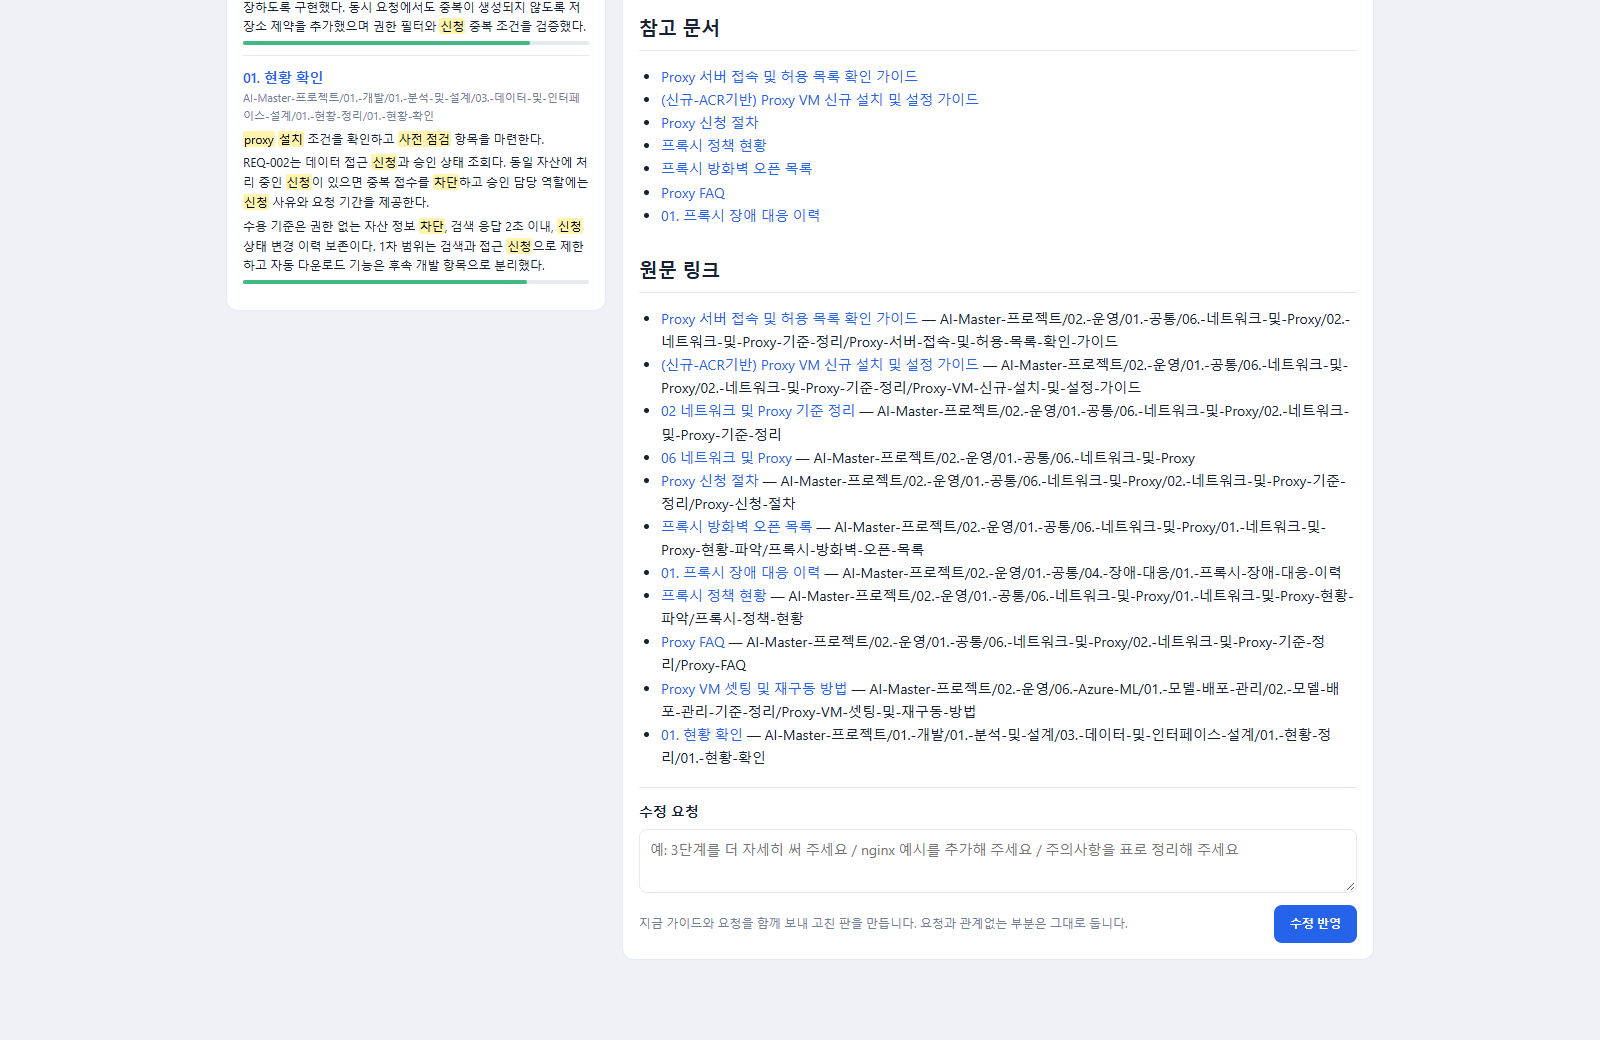
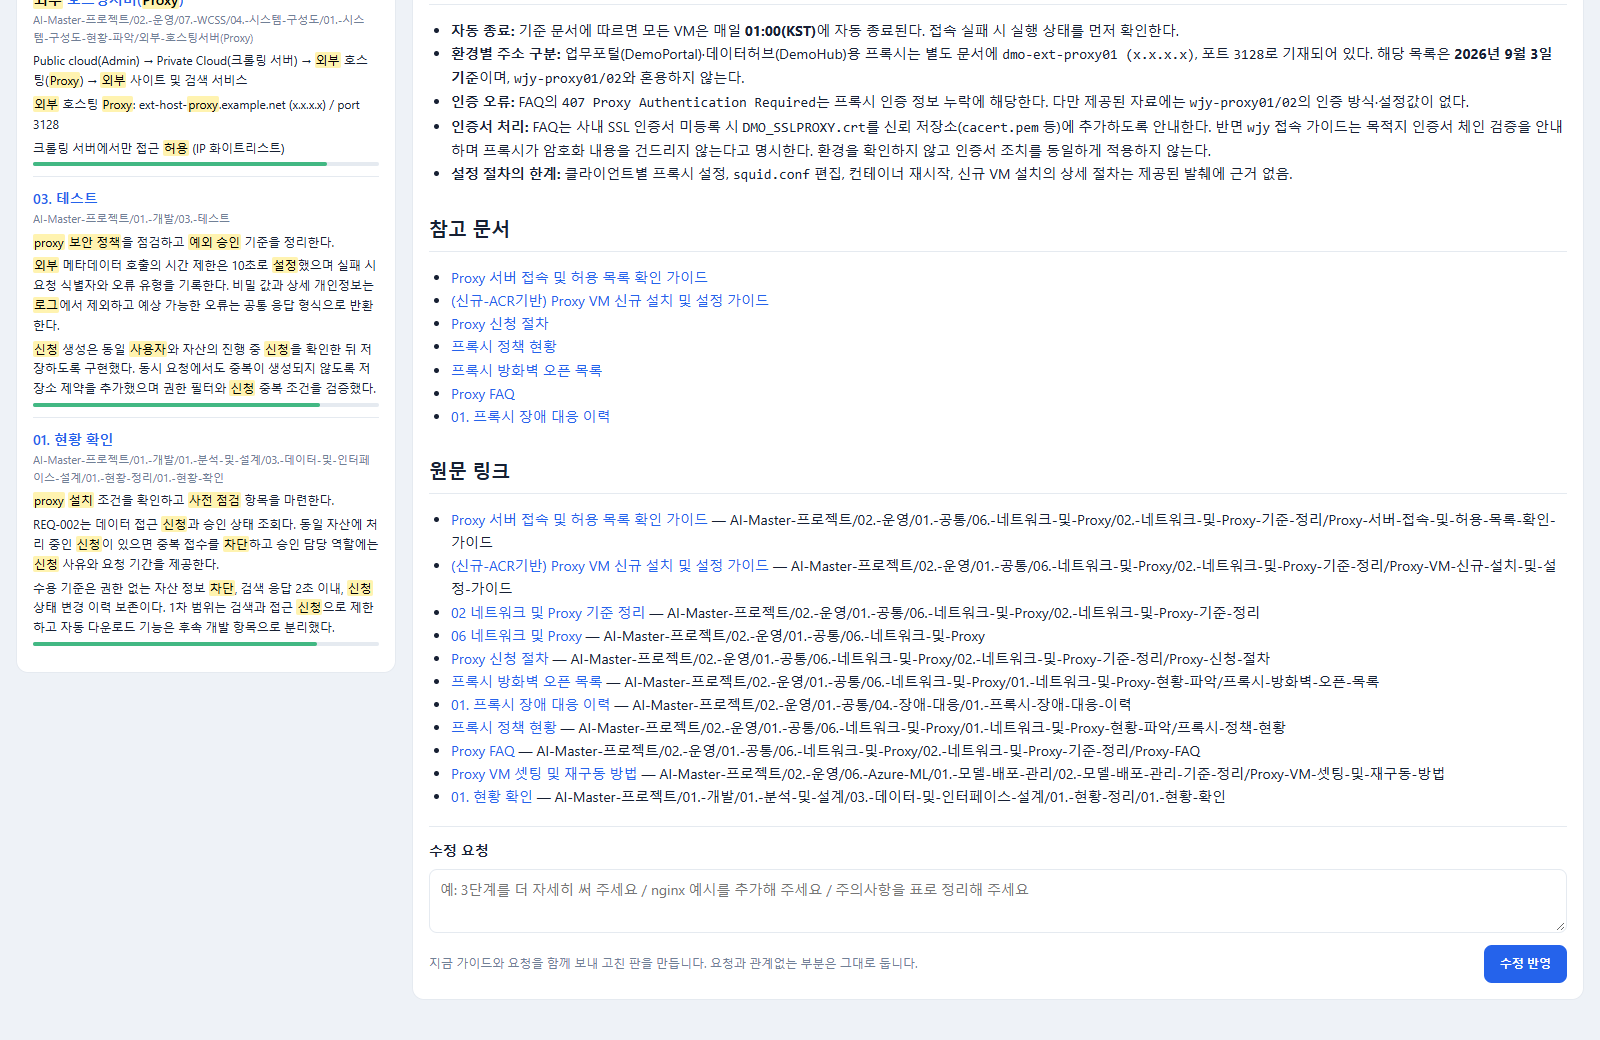
Wiki 검색 입력칸 여백을 독립 화면에도 적용하고 README 시나리오 1 그림을 허브 안 모습(embed)으로 다시 촬영, 아키텍처 그림은 누르면 큰 PNG 로

diff --git a/wiki_tools/wiki_search.py b/wiki_tools/wiki_search.py
@@ -1479,7 +1479,7 @@ __FAVICON__<title>Wiki Guide Search</title><link rel="stylesheet" href="https://
 *{box-sizing:border-box}body{margin:0;color:var(--ink);font:14px/1.65 "Segoe UI","Malgun Gothic",sans-serif;background:#eef2f7}
 .top{height:58px;background:#13213a;color:#fff;display:flex;align-items:center;padding:0 24px;gap:14px}.mark{width:28px;height:28px;border-radius:8px;background:#16a34a;display:grid;place-items:center;font-weight:800}.brand{font-size:16px;font-weight:700}.crumb{color:#aebbd0;font-size:12px}
 .wrap{max-width:1180px;margin:0 auto;padding:24px 16px 80px}
-.search{display:flex;gap:8px;background:#fff;border:1px solid var(--line);border-radius:12px;padding:8px}.search input{flex:1;border:0;outline:0;font:inherit;font-size:16px;padding:8px 10px}
+.search{display:flex;gap:8px;background:#fff;border:1px solid var(--line);border-radius:10px;padding:3px}.search input{flex:1;border:0;outline:0;font:inherit;font-size:15px;padding:2px 10px}.search button{padding:5px 16px}
 button{font:inherit;border:0;border-radius:8px;padding:9px 16px;cursor:pointer;background:var(--blue);color:#fff;font-weight:600}button.ghost{background:#fff;color:var(--ink);border:1px solid var(--line)}button:disabled{opacity:.5;cursor:default}
 .steps{display:flex;gap:8px;margin:16px 0;flex-wrap:wrap}.step{padding:4px 12px;border-radius:999px;background:#dfe6ef;color:var(--muted);font-size:12px;font-weight:600}.step.on{background:#13213a;color:#fff}.step.done{background:#42b883;color:#fff}
 .chips{display:flex;flex-wrap:wrap;gap:6px;margin:8px 0 0;font-size:12px;color:var(--muted);align-items:center}.chip{background:#e8effa;color:#174ea6;border-radius:6px;padding:2px 8px}
@@ -1494,7 +1494,7 @@ mark{background:var(--hl);padding:0 1px;border-radius:2px}
 .tools{display:flex;gap:8px;justify-content:flex-end;align-items:center;margin-bottom:8px;flex-wrap:wrap}.revise{margin-top:18px;border-top:1px solid var(--line);padding-top:12px}.revise textarea{width:100%;margin:6px 0;border:1px solid var(--line);border-radius:8px;padding:8px 10px;font:inherit;resize:vertical}.revbar{display:flex;gap:10px;align-items:center;justify-content:space-between;font-size:12px}.regok{background:#e3f5ec;color:#1e7a4f;border-radius:8px;padding:8px 12px;margin-bottom:10px;font-size:13px}.regerr{background:#fdecec;color:#9b2c2c;border-radius:8px;padding:8px 12px;margin-bottom:10px;font-size:13px}.gen{margin-right:auto;font-size:12px;font-weight:600;border-radius:999px;padding:4px 12px;background:#f1f5f9;color:#475569}.gen.llm{background:#dcfce7;color:#166534}.gen.live{background:#dbeafe;color:#1e40af}.tools[hidden]{display:none}.muted{color:var(--muted)}.empty{color:var(--muted);text-align:center;padding:40px 0}
 @media(max-width:820px){.grid{grid-template-columns:1fr}.opts{grid-template-columns:1fr}}
 </style></head><body>
-<script>if(/[?&]embed=1/.test(location.search))document.documentElement.classList.add("embed")</script><style>html.embed header.top{display:none}html.embed .wrap{max-width:none;padding:4px 16px 40px}html.embed .search{padding:3px;border-radius:10px}html.embed .search input{padding:2px 10px;font-size:15px}html.embed .search button{padding:5px 16px}</style><header class="top"><div class="mark">G</div><div class="brand">Wiki Guide Search</div><div class="crumb">wiki-repo 의미 검색 · 가이드 생성</div></header>
+<script>if(/[?&]embed=1/.test(location.search))document.documentElement.classList.add("embed")</script><style>html.embed header.top{display:none}html.embed .wrap{max-width:none;padding:4px 16px 40px}</style><header class="top"><div class="mark">G</div><div class="brand">Wiki Guide Search</div><div class="crumb">wiki-repo 의미 검색 · 가이드 생성</div></header>
 <div class="wrap">
 <form class="search" id="form"><input id="q" placeholder="예: 프록시 설정 가이드 알려줘" autocomplete="off" autofocus><button id="go">검색</button></form>
 <div class="steps"><span class="step" id="s1">1. 문서 검색</span><span class="step" id="s2">2. 유형 확인</span><span class="step" id="s3">3. 관련 문서 재검색</span><span class="step" id="s4">4. 가이드 생성</span></div>

diff --git a/test/capture_readme.py b/test/capture_readme.py
@@ -148,7 +148,7 @@ def reselect(page):
 
 
 def wiki(page):
-    ready(page, SITES["wiki"])
+    ready(page, SITES["wiki"] + "/?embed=1")  # 허브 안에서 보이는 화면(위 검은 머리 없음, 가로 꽉 채움)과 같게
     page.locator("#q").fill("프록시 설정 가이드 알려줘")
     page.locator("#go").click()
     page.locator("#ask .opt").first.wait_for(timeout=60000)

diff --git a/README.md b/README.md
@@ -62,7 +62,9 @@ Azure DevOps Wiki에 쌓인 운영 지식과 Azure의 실제 인프라를 LLM으
 - 로컬 PC의 허브(hub.py)에서 세 시나리오를 실행하고, LLM·Azure DevOps·Teams·Azure 구독과 주고받는 흐름을 한 장에 담았습니다.
 - 점선은 조건부로 쓰거나 사람이 수행하는 연결입니다. Wiki·Task·PR·VM 태그 같은 외부 변경은 모두 사람 승인 뒤에 반영합니다.
 
-![전체 아키텍처](docs/images/architecture.svg)
+[![전체 아키텍처](docs/images/architecture.svg)](docs/images/architecture.png)
+
+그림을 누르면 큰 그림(PNG)이 열립니다.
 
 다이어그램 색: 초록 = 구현 · 주황 = 사용자 판단 · 연보라 = 시작·결과 · 하늘색 = 외부 시스템(Wiki·웹 검색)
 
